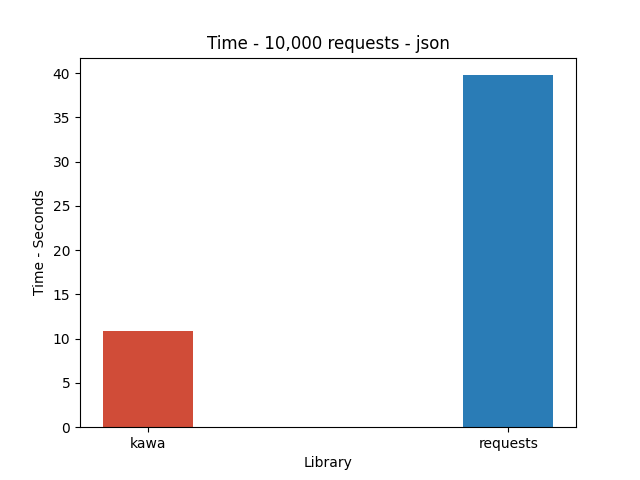
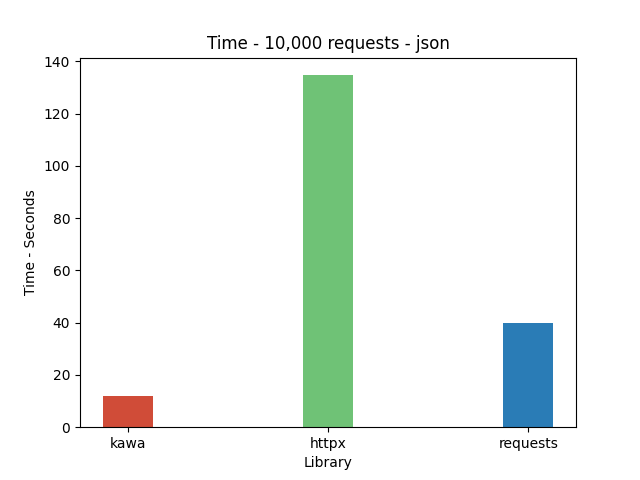
include httpx in benchmarks

diff --git a/tests/client/benchmarks.py b/tests/client/benchmarks.py
@@ -2,6 +2,7 @@ import timeit
 
 import kawa
 import requests
+import httpx
 
 
 def benchmark_time_for_x_requests():
@@ -15,20 +16,28 @@ def benchmark_time_for_x_requests():
         response = requests.request("GET", "http://127.0.0.1:8080")
         print(response)
 
+    def httpx_request():
+        response = httpx.request("GET", "http://127.0.0.1:8080")
+        print(response)
+
     kawa_time = timeit.timeit(kawa_request, number=NUMBER)
     requests_time = timeit.timeit(requests_request, number=NUMBER)
+    httpx_time = timeit.timeit(httpx_request, number=NUMBER)
 
     print(f"Benchmark for: {NUMBER:,} requests:")
 
     print("Kawa:", kawa_time)
     print("Requests: ", requests_time)
+    print("HTTPX: ", httpx_time)
 
-    print("Kawa is {}x faster".format(round(requests_time / kawa_time)))
+    print("Kawa is {}x faster than requests".format(round(requests_time / kawa_time)))
+    print("Kawa is {}x faster than httpx".format(round(httpx_time / kawa_time)))
 
     make_chart(
         name="Time - 10,000 requests",
         requests_time=requests_time,
         kawa_time=kawa_time,
+        httpx_time=httpx_time,
         benchmark_type="plaintext"
     )
 
@@ -57,40 +66,49 @@ def benchmark_time_for_x_json_requests():
         response = requests.request("POST", "http://127.0.0.1:8080/data", json=payload)
         print(response)
 
+    def httpx_request():
+        response = httpx.request("GET", "http://127.0.0.1:8080", json=payload)
+        print(response)
+
     kawa_time = timeit.timeit(kawa_request, number=NUMBER)
     requests_time = timeit.timeit(requests_request, number=NUMBER)
+    httpx_time = timeit.timeit(httpx_request, number=NUMBER)
 
     print(f"Benchmark for json: {NUMBER:,} requests - {payload_size} bytes size payload:")
 
     print("Kawa:", kawa_time)
     print("Requests: ", requests_time)
-
-    print("Kawa is {}x faster".format(round(requests_time / kawa_time)))
+    print("HTTPX: ", httpx_time)
+    
+    print("Kawa is {}x faster than requests".format(round(requests_time / kawa_time)))
+    print("Kawa is {}x faster than httpx".format(round(httpx_time / kawa_time)))
 
     make_chart(
         "Time - 10,000 requests",
         requests_time=requests_time,
         kawa_time=kawa_time,
+        httpx_time=httpx_time,
         benchmark_type="json"
     )
 
 def make_chart(
     name: str,
     requests_time: float,
-    kawa_time,
+    kawa_time: float,
+    httpx_time: float,
     benchmark_type: str
 ):
     import matplotlib.pyplot as plt
 
     plt.bar(
-        ["kawa", "requests"],
-        [kawa_time, requests_time],
+        ["kawa", "httpx", "requests"],
+        [kawa_time, httpx_time, requests_time],
         width=0.25,
-        color=["#D04C38", "#2A7CB6"]
+        color=["#D04C38", "#6FC276", "#2A7CB6"]
     )
     plt.xlabel("Library")
     plt.ylabel("Time - Seconds")
     plt.title(f"{name} - {benchmark_type}")
     plt.savefig(f".github/images/{benchmark_type}-benchmark.png")
 
-benchmark_time_for_x_requests()
+benchmark_time_for_x_json_requests()

diff --git a/README.md b/README.md
@@ -22,6 +22,20 @@ Kawa aims to be a small HTTP client with a fairly sized feature set, with good p
 As with all benchmarks, please take this with a grain of salt.
 All benchmarks are tested on a local server made with [`litestar`](https://litestar.dev/), which is run with [`uvicorn`](https://www.uvicorn.org/)
 
+The benchmarks are run on the following machine:
+```
+  Model Name:	MacBook Pro
+  Model Identifier:	MacBookPro11,3
+  Processor Name:	Quad-Core Intel Core i7
+  Processor Speed:	2.8 GHz
+  Number of Processors:	1
+  Total Number of Cores:	4
+  L2 Cache (per Core):	256 KB
+  L3 Cache:	6 MB
+  Hyper-Threading Technology:	Enabled
+  Memory:	16 GB
+```
+
 ### 10k Plaintext GET requests
 
 ![plaintext benchmark](.github/images/plaintext-benchmark.png)
